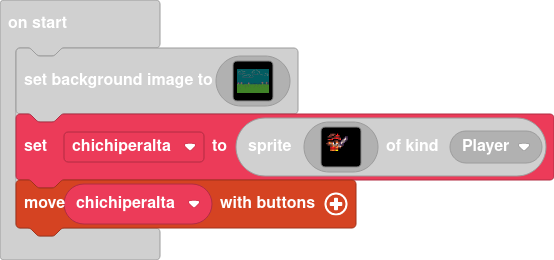
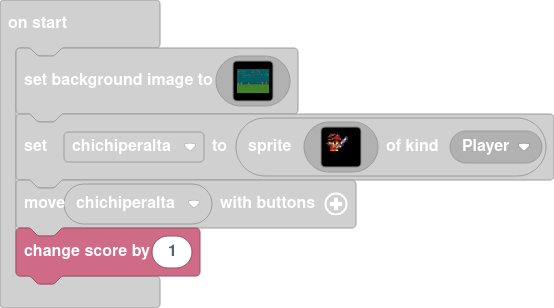
change score by 1

diff --git a/main.ts b/main.ts
@@ -147,3 +147,4 @@ let chichiperalta = sprites.create(img`
     ........................
     `, SpriteKind.Player)
 controller.moveSprite(chichiperalta)
+info.changeScoreBy(1)
